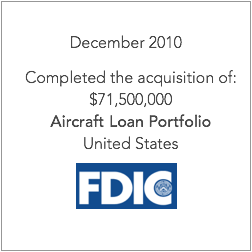
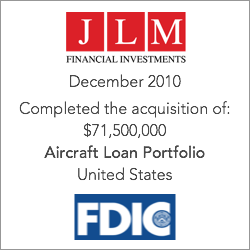
new tombstones from client, new pf section

Changed region(s): [[0.0, 0.0, 1.0, 1.0], [0.084, 0.392, 0.112, 0.42], [0.056, 0.42, 0.084, 0.448]]

diff --git a/index.html b/index.html
@@ -73,7 +73,8 @@
              <a href="javascript:toggleByClass('content3')" class="link-word"> Distressed Assets </a><img src="img/dot.png" class="dot" />
              <a href="javascript:toggleByClass('content4')" class="link-word"> One83 </a><img src="img/dot.png" class="dot" />
              <a href="javascript:toggleByClass('content5')" class="link-word"> Real Estate </a><img src="img/dot.png" class="dot" />
-             <a href="javascript:toggleByClass('content6')" class="link-word"> JLM Healthcare </a>
+             <a href="javascript:toggleByClass('content6')" class="link-word"> JLM Healthcare </a><img src="img/dot.png" class="dot" />
+             <a href="team.html" class="link-word"> Team </a>
 
          </div>
         </div>
@@ -90,6 +91,15 @@
 
               <p class="text-center" id="affiliate-title"> Recent Acquisitions by JLM Financial Investments </p>
            </div>
+               <div class="row">
+                  <div class="large-6 columns">
+                    <img src="img/pf_fitnesstombstone1.png" class="pf-tombstones"/>
+                  </div>
+                  <div class="large-6 columns">
+                    <img src="img/pf_fitnesstombstone1.png" class="pf-tombstones"/>
+                  </div>
+               </div>
+
                <div class="row">
                 <div class="large-4 columns">
                   <img src="img/tombstone1.png" class="tombstone" />

diff --git a/css/jlm.css b/css/jlm.css
@@ -180,6 +180,11 @@ span {
   margin-top: 30px;
 }
 
+.pf-tombstones {
+  display: block;
+  margin: 15px auto;
+}
+
 /* footer */
 
 .footer-section {
